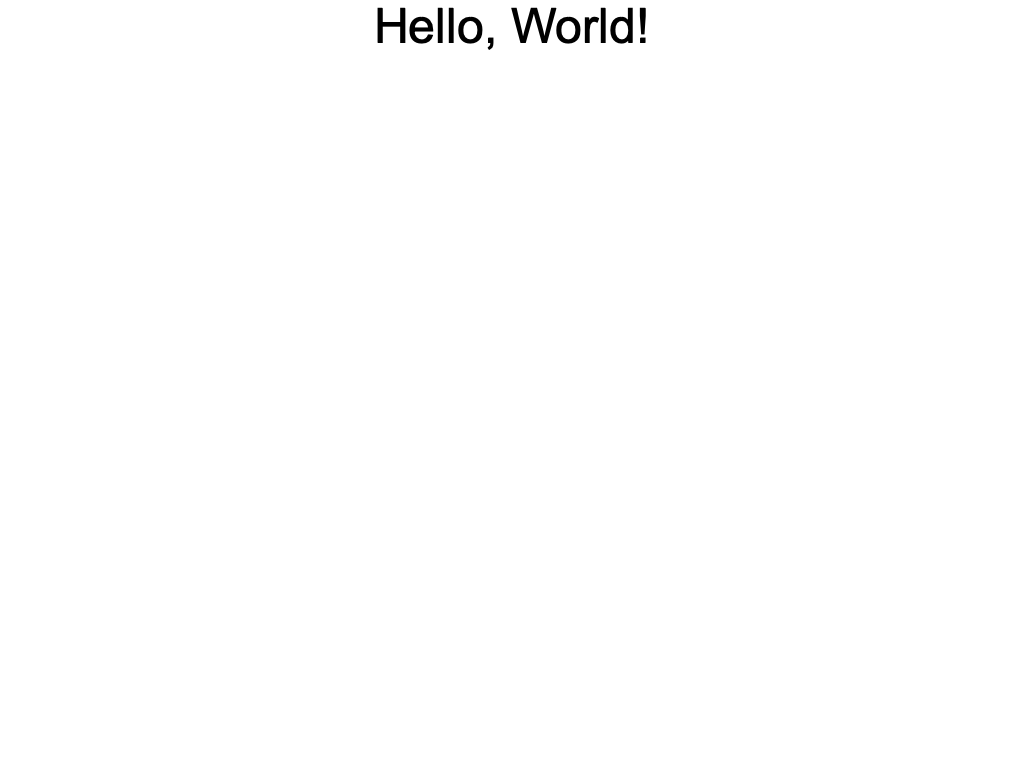
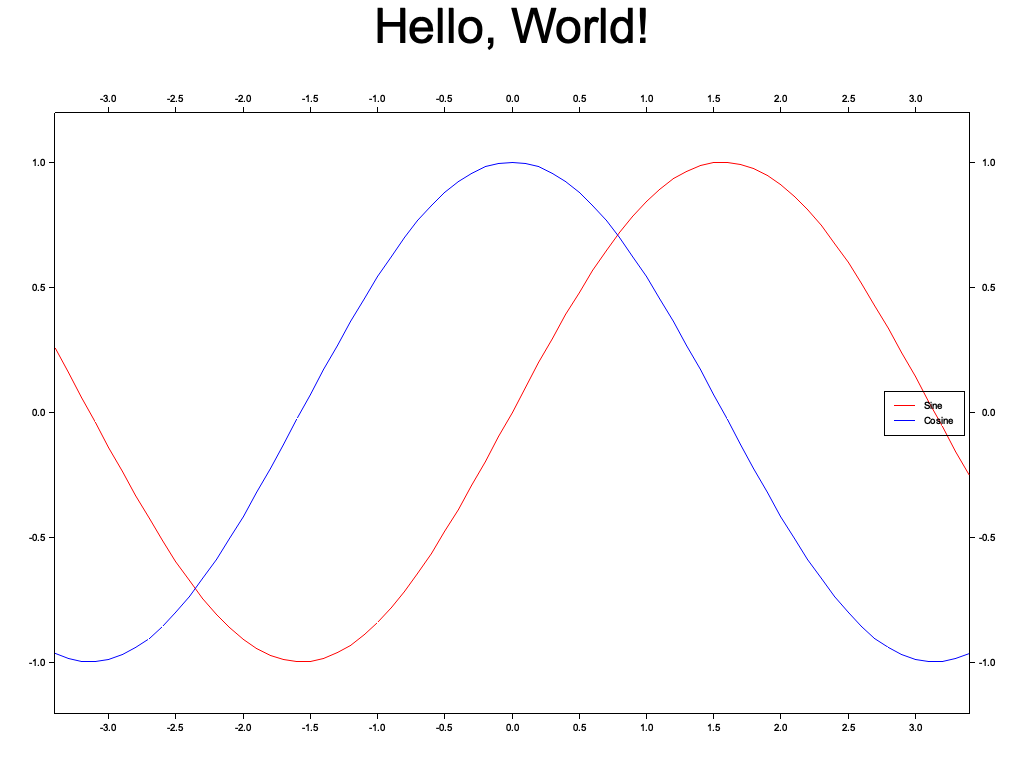
Add a chart to hello_world example

diff --git a/platform/src/lib.rs b/platform/src/lib.rs
@@ -62,26 +62,43 @@ pub unsafe extern "C" fn roc_memset(dst: *mut c_void, c: i32, n: usize) -> *mut 
 
 #[no_mangle]
 pub extern "C" fn rust_main() -> i32 {
-    plot();
+    plot().unwrap();
     let exit_code = 0;
     exit_code
 }
 
-fn plot() {
-    plot_().unwrap()
-}
-
 const OUT_FILE_PATH: &'static str = "./plot.png";
-fn plot_() -> Result<(), Box<dyn std::error::Error>> {
+fn plot() -> Result<(), Box<dyn std::error::Error>> {
     let options = get_options();
-    let output_file_path = options.outputFilePath.as_str();
-    let area = BitMapBackend::new(output_file_path, (1024, 768)).into_drawing_area();
+    let area = BitMapBackend::new(options.outputFilePath.as_str(), (1024, 768)).into_drawing_area();
     area.fill(&WHITE)?;
     let area = area.titled(options.title.as_str(), ("sans-serif", 60))?;
+    let x_axis = (-3.4f32..3.4).step(0.1);
+    let mut cc = ChartBuilder::on(&area)
+        .margin(5)
+        .set_all_label_area_size(50)
+        .build_cartesian_2d(-3.4f32..3.4, -1.2f32..1.2f32)?;
+    cc.configure_mesh()
+        .x_labels(20)
+        .y_labels(10)
+        .disable_mesh()
+        .x_label_formatter(&|v| format!("{:.1}", v))
+        .y_label_formatter(&|v| format!("{:.1}", v))
+        .draw()?;
+    cc.draw_series(LineSeries::new(x_axis.values().map(|x| (x, x.sin())), &RED))?
+        .label("Sine")
+        .legend(|(x, y)| PathElement::new(vec![(x, y), (x + 20, y)], &RED));
+    cc.draw_series(LineSeries::new(
+        x_axis.values().map(|x| (x, x.cos())),
+        &BLUE,
+    ))?
+    .label("Cosine")
+    .legend(|(x, y)| PathElement::new(vec![(x, y), (x + 20, y)], &BLUE));
+    cc.configure_series_labels().border_style(&BLACK).draw()?;
     area.present().expect(
-        format!("I failed to draw your plot to {} !", output_file_path).as_str(),
+        format!("I failed to draw your plot to {} !", options.outputFilePath.as_str()).as_str(),
     );
-    println!("I drew your plot to {}", output_file_path);
+    println!("I drew your plot to {}", options.outputFilePath.as_str());
     Ok(())
 }
 
